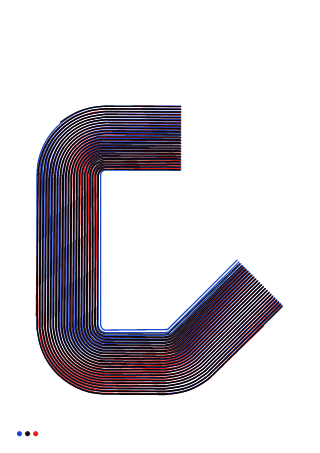
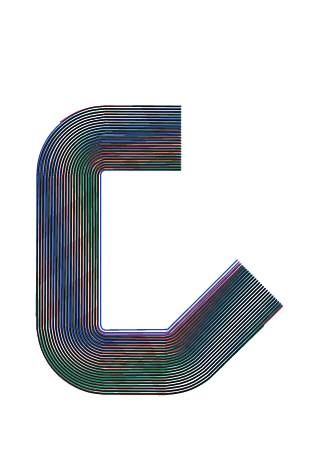
ink-field: generalise away from the reference works
Influence, not imitation: the study doc keeps the attribution; the tool
stops reproducing signatures. The 'gel' palette (the artist's exact
pens) becomes a generic 'primaries' ramp, the margin proof dots default
off everywhere (opt-in --pen-tests on the CLI), and product-facing
descriptions drop the artist's name — the generator is a set of
material techniques (overprint interleave, vernier beats, wear-order
gradients), not a mode for making knockoffs. Only ink-field golden keys
move.

Claude-Session: https://claude.ai/code/session_01PSehpwzavq3ahobdTsQD6n

Changed region(s): [[0.0938, 0.2163, 0.875, 0.8962], [0.0625, 0.9272, 0.125, 0.989]]

diff --git a/packages/core/src/ink-field.ts b/packages/core/src/ink-field.ts
@@ -6,12 +6,13 @@ import { makeRandom, randomSeed, subSeed } from './lib/rng.js';
 import { clamp, clamp01 } from './lib/math.js';
 
 /**
- * Ink field — material-forward multi-ink fields in the vein of Joel
- * Cammarata's plotted work: the geometry is deliberately simple and regular
- * (a drafted band, a uniform lattice, stripe bands) so that the physical
- * behaviour of the inks — how crossing gel colours stack, how a fountain pen
- * depletes over the plot, how misregistered passes shimmer — carries the
- * piece. Three styles:
+ * Ink field — material-forward multi-ink fields: the geometry is
+ * deliberately simple and regular (a drafted band, a uniform lattice,
+ * stripe bands) so that the physical behaviour of the inks — how crossing
+ * colours stack, how a pen depletes over the plot, how misregistered passes
+ * shimmer — carries the piece. The techniques (overprint interleave,
+ * vernier beats, wear-order gradients) are surveyed in
+ * `docs/style-studies/joel-cammarata.md`. Three styles:
  *
  * - `ribbon` — one drafted band path (axis-aligned / 45° segments with
  *   filleted corners, the CAD look) rendered as dense parallel offsets;
@@ -87,7 +88,7 @@ export interface InkFieldOptions {
   /** Stripes: dark-block fraction of each block period, 0..1. */
   blockDuty?: number;
 
-  /** Margin swatch: one small filled test dot per ink (default true). */
+  /** Margin swatch: one small filled proof dot per ink (default false). */
   penTests?: boolean;
   /** Plot order as a wear gradient: pen wear follows stroke order, so a
    *  spatial ramp turns dulling/depletion into a composed gradient. */
@@ -286,7 +287,7 @@ export function generateInkField(options: InkFieldOptions): FlowLinesResult {
     stripeSoftness = 0.45,
     stripeBlocks = false,
     blockDuty = 0.5,
-    penTests = true,
+    penTests = false,
     wearOrder = 'none',
     wearAngleDeg = 0,
     minSegmentLengthPx = 3,
@@ -588,8 +589,8 @@ export function generateInkField(options: InkFieldOptions): FlowLinesResult {
     }
   }
 
-  // Pen-test dots: one small filled swatch per ink inside the margin box —
-  // the artist's habit of proofing each pen before the plot, kept as a mark.
+  // Optional proof dots: one small filled swatch per ink inside the margin
+  // box, for checking each pen's flow before committing to the field.
   if (penTests && lines.length) {
     const rDot = Math.max(2, penWidthPx * 2.2);
     const gap = rDot * 2 + Math.max(4, penWidthPx * 4);

diff --git a/packages/cli/src/commands/ink-field.ts b/packages/cli/src/commands/ink-field.ts
@@ -6,15 +6,15 @@ import { addSketchOptions, applySketchFromFlags, sketchScale } from '../sketch.j
 /** The export layer name for ink index i (matches core's bandLayerName). */
 const bandLayer = (i: number): string => `band-${String(i).padStart(2, '0')}`;
 
-const DEFAULT_INK_COLORS = ['#1b48c8', '#111111', '#e2231a', '#0aa64f'];
+const DEFAULT_INK_COLORS = ['#1d3fc0', '#111111', '#d0341c', '#0a9a4f'];
 
 export function registerInkField(program: Command) {
   addTileOptions(addSketchOptions(program.command('ink-field')))
     .description(
-      'Render a material-forward multi-ink field (after Joel Cammarata): a ' +
-        'drafted ribbon band braided by vernier pitch differences, a lattice ' +
-        'carrying colour planes purely by ink density, or drifting stripe ' +
-        'bands — every ink a band-NN pen layer built to physically overprint'
+      'Render a material-forward multi-ink field: a drafted ribbon band ' +
+        'braided by vernier pitch differences, a lattice carrying colour ' +
+        'planes purely by ink density, or drifting stripe bands — every ink ' +
+        'a band-NN pen layer built to physically overprint'
     )
     .option('-w, --width <number>', 'Canvas width in pixels (ignored with --paper)', '800')
     .option('-h, --height <number>', 'Canvas height in pixels (ignored with --paper)', '1066')
@@ -45,7 +45,7 @@ export function registerInkField(program: Command) {
     .option('--softness <number>', 'Stripes: band-edge overlap (0-1)', '0.45')
     .option('--blocks', 'Stripes: quantise into ruled dark/light blocks')
     .option('--block-duty <number>', 'Stripes: dark-block fraction (0-1)', '0.5')
-    .option('--no-pen-tests', 'Skip the per-ink pen-test dots in the margin')
+    .option('--pen-tests', 'Add one small proof dot per ink inside the margin')
     .option(
       '--plot-order <mode>',
       'Plot order as a wear gradient: travel | sweep | center-out | center-in ' +

diff --git a/packages/web/src/projects/ink-field/types.ts b/packages/web/src/projects/ink-field/types.ts
@@ -59,7 +59,7 @@ export interface InkFieldState {
   /** Stripes: dark-block fraction, 0..1. */
   blockDuty: number;
 
-  /** One small test dot per ink inside the margin (the artist's pen proof). */
+  /** One small proof dot per ink inside the margin (off by default). */
   penTests: boolean;
   /** Multiply-blend the band inks in the preview (physical overprint). */
   blendInks: boolean;
@@ -76,8 +76,8 @@ export interface InkFieldState {
 export const defaultInkFieldState: InkFieldState = {
   style: 'ribbon',
   colorCount: 3,
-  palette: 'gel',
-  customRamp: ['#1b48c8', '#111111', '#e2231a'],
+  palette: 'primaries',
+  customRamp: ['#1d3fc0', '#111111', '#d0341c'],
 
   pitchMm: 0.8,
   angleDeg: 0,
@@ -102,7 +102,7 @@ export const defaultInkFieldState: InkFieldState = {
   stripeBlocks: false,
   blockDuty: 0.5,
 
-  penTests: true,
+  penTests: false,
   blendInks: true,
   wearOrder: 'none',
   wearAngleDeg: 0,

diff --git a/packages/web/src/lib/palette.ts b/packages/web/src/lib/palette.ts
@@ -58,10 +58,10 @@ export const PALETTES: PaletteDef[] = [
     ramp: ['#111111', '#e2231a'],
   },
   {
-    id: 'gel',
-    label: 'Gel (blue + black + red)',
+    id: 'primaries',
+    label: 'Primaries',
     ground: 'light',
-    ramp: ['#1b48c8', '#111111', '#e2231a'],
+    ramp: ['#1d3fc0', '#111111', '#d0341c', '#0a9a4f'],
   },
   {
     id: 'mono',

diff --git a/docs/style-studies/joel-cammarata.md b/docs/style-studies/joel-cammarata.md
@@ -145,7 +145,7 @@ Items 1–3 landed alongside this study:
    web module + `flow-lines ink-field` (CLI): `ribbon` (drafted
    filleted band, vernier-braided inks), `lattice` (colour planes by
    density inside one grid), `stripes` (drifting bands, optional ruled
-   blocks), with per-ink misregistration and margin pen-test dots.
+   blocks), with per-ink misregistration and optional per-ink proof dots.
 3. **Plot order** — `optimizePlot`/`orderPlot` take an order strategy
    (`sweep` / `centerOut` / `centerIn`); exposed as the module's
    "Plot order (wear)" group and `--plot-order` on the `ink-field` and
